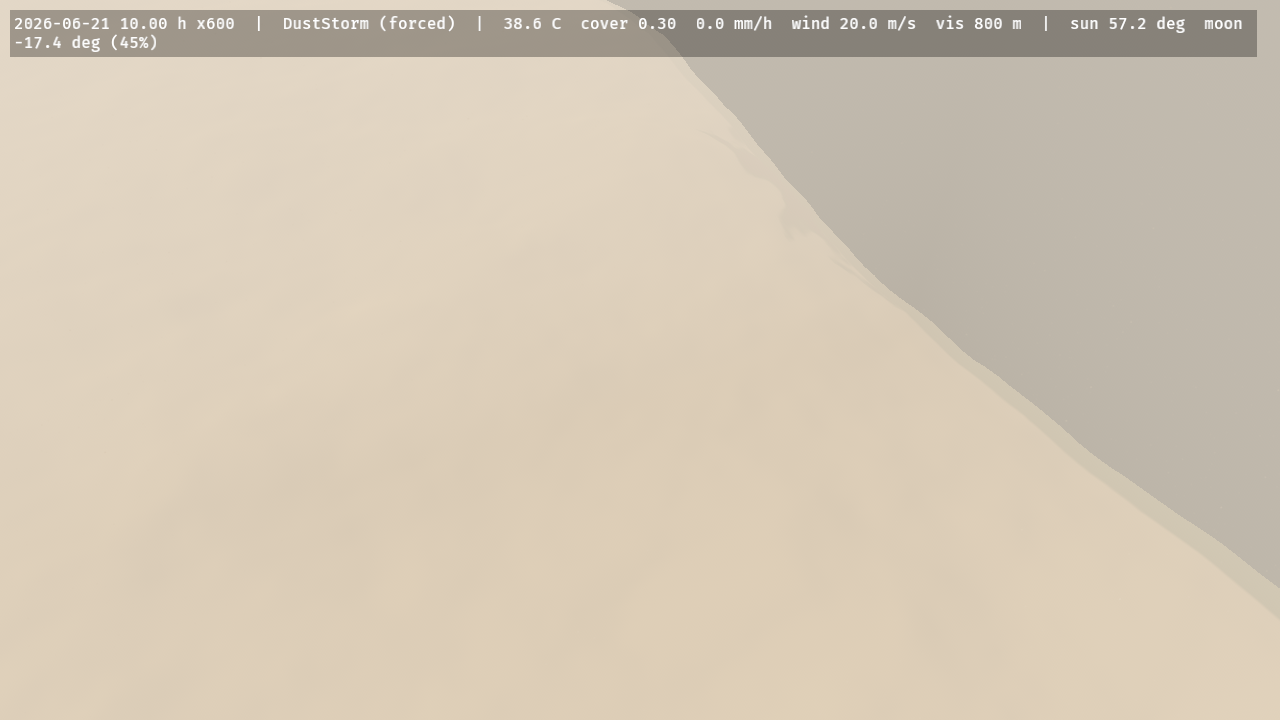
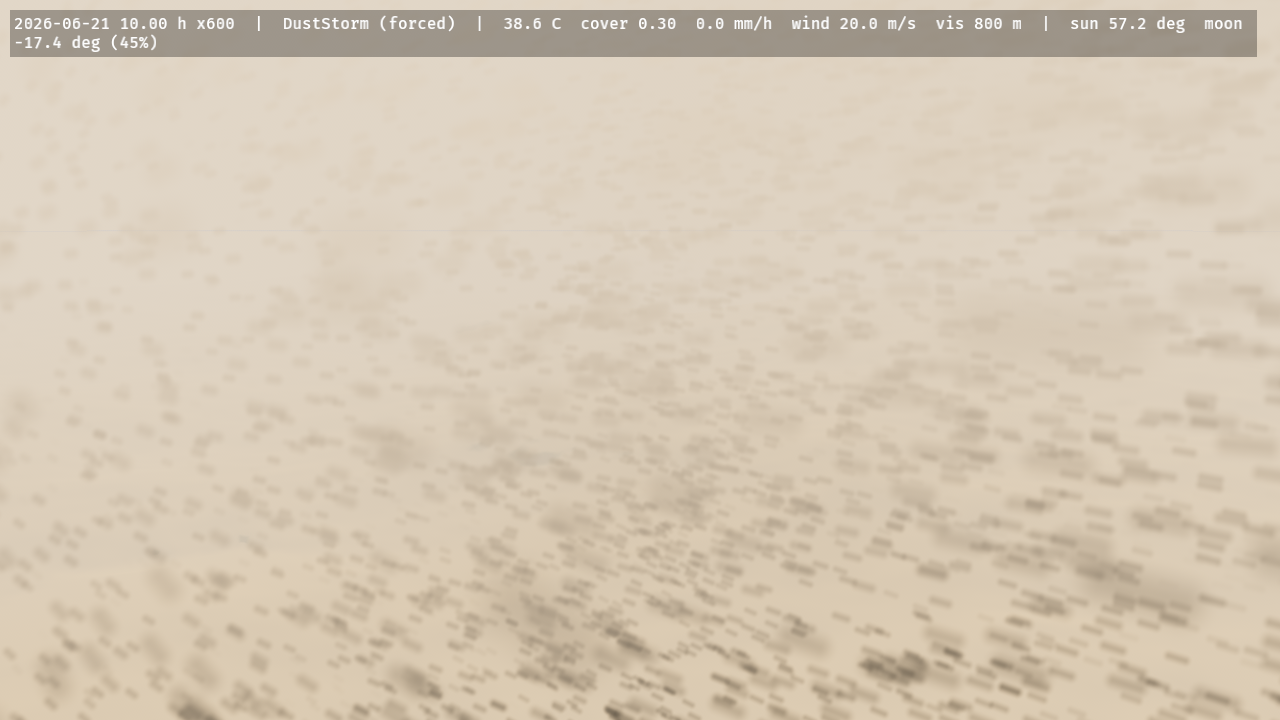
A dust storm streams instead of sitting as static fog
The sprites were drawn at their 2 mm grain size: 0.02-0.1 px anywhere
in the 60 m box, so the sub-pixel coverage rule faded each one to
opacity ~0.01 and 60 000 of them added nothing. Measured on a 1150x140
sky band: zero pixels below 150 against a 224 background, and the
review measured <= 4 DN of motion across 14 frames - the streaming
particulate the example exists to show did not read.

Sprites are now drawn at 0.35 m cluster scale with their own 0.5
opacity (below a flake's 0.8: a cluster sprite is a veil of grains, not
an opaque puff). After: 26% of the frame moves more than 6 DN, with
cores at 150-199 (55k pixels), the tan chromaticity preserved
(R:G:B 1.17:1.10:1.00 both before and after), and no blobs, squares or
whiteout. The vision reviewer's verdict: ship - coherent downwind
advection, no popping at the box edges.

The grain size stays 2 mm where it belongs, in the sprite extinction
 Validation 8 pins 8.7e-7 m^-1): the counts, the motion, the fog and
every physics number are untouched. dust.md Deviation 15 records the
split and the measurements; CHANGELOG updated; the three dust stills in
the README regenerated.

diff --git a/src/precipitation/model.rs b/src/precipitation/model.rs
@@ -92,8 +92,15 @@ pub(crate) const DUST_FALL_SPEED_MS: f32 = 0.05;
 /// Scale height of the dust sprites' respawn heights above the ground, m: the ground fog's
 /// haze scale height (`fog.md`).
 pub(crate) const DUST_HEIGHT_SCALE_M: f32 = 60.0;
-/// Diameter of a dust sprite, m (plan 4.3; a visual stand-in for a puff).
+/// Grain diameter of a dust sprite, m (plan 4.3): the size the sprite extinction accounts
+/// (`dust_sprite_extinction`, `dust.md` Validation 8). The sprite is *drawn* at
+/// `DUST_SPRITE_DRAW_M` — see `dust.md` Deviation 15.
+#[cfg(test)]
 pub(crate) const DUST_SIZE_M: f32 = 2e-3;
+/// Diameter a dust sprite is drawn with, m: a visible puff cluster, not the 2 mm grain. At the
+/// grain size a sprite spans 0.02–0.1 px anywhere in the 60 m box, so it fades to nothing under
+/// the sub-pixel coverage rule and a dust storm reads as static fog (`dust.md` Deviation 15).
+pub(crate) const DUST_SPRITE_DRAW_M: f32 = 0.35;
 
 /// How many particles of each kind are active.
 #[derive(Clone, Copy, Debug, Default, PartialEq, Eq)]

diff --git a/src/precipitation/mod.rs b/src/precipitation/mod.rs
@@ -33,7 +33,8 @@ use crate::plugin::{
 use crate::terrain::{NO_TERRAIN, TerrainParamsGpu, TerrainState};
 use crate::wind::{WindFieldParams, WindState};
 use model::{
-    DUST_FALL_SPEED_MS, DUST_HEIGHT_SCALE_M, DUST_SIZE_M, marshall_palmer_lambda, particle_counts,
+    DUST_FALL_SPEED_MS, DUST_HEIGHT_SCALE_M, DUST_SPRITE_DRAW_M, marshall_palmer_lambda,
+    particle_counts,
 };
 
 /// Edge of the camera-centred particle box, m.
@@ -434,7 +435,7 @@ fn update_precipitation(
             SPLASH_LIFE_S,
             runtime.time,
         ),
-        dust: crate::fog::DUST_ALBEDO.extend(DUST_SIZE_M),
+        dust: crate::fog::DUST_ALBEDO.extend(DUST_SPRITE_DRAW_M),
         camera: view.velocity.extend(PRECIPITATION_BOX_M * 0.5),
     };
 }

diff --git a/docs/research/dust.md b/docs/research/dust.md
@@ -143,13 +143,4 @@ GPU against CPU mirror (`gpu_aeolian_matches_the_cpu_mirror`, rough bedrock unde
 
 14. **The respawn height profile is truncated to the part of the box above the ground.** The note's $y = -H\ln(1 - u(1 - e^{-60/H}))$ assumes 60 m of box above the ground, but the box is centred on the camera (30 m above a camera at the ground). The sampler is `lo − H ln(1 − u (1 − e^{−(hi−lo)/H}))` over `[lo, hi]` = the box's span above the ground there; with `lo = 0`, `hi = 60` it is the note's formula (the CPU test uses that case). A sprite carried out of the top of the box respawns instead of wrapping to the bottom, where it would sit under the ground for a frame.
 
-Kept at the plan's values although the sources differ or are silent (no deviation): threshold 8 m/s (the fluid threshold for 250 µm sand; the impact threshold and Fryberger & Dean are 6.2–6.7); repose 34° (Kok and Werner; Paris 30°); particle size 2 mm and fraction 0.4 (visual choices); no extinction added to the fog (`fog.md`).
-
-## Pending index
-
-`distill_index` skipped (distill/Qdrant refused connections on 2026-10-13; scribe on `bmb.local` was healthy). PDFs under `/tmp/research/pdf` (not committed). Stems: lower-cased DOI, `/` → `_`.
-
-- `10.1111_cgf.13815`: **the corpus copy is the HAL landing page only (abstract); re-ingest the real PDF** (SciDB copy, `/tmp/research/pdf/10.1111_cgf.13815.pdf`, 3.2 MB) so the library holds the body.
-- `10.1088_0034-4885_75_10_106901` (Kok et al. 2012; arXiv 1201.4353, open PDF; also cited by `snow-cover.md`)
-- Not obtained, used only through Kok et al. or Paris: Bagnold (1941) *The Physics of Blown Sand and Desert Dunes*, Kawamura (1951), Owen (1964), Lettau & Lettau (1978), Fryberger & Dean (1979), Werner (1995), Sauermann et al. (2001), Hersen et al. (2002), Durán et al. (2010, 2011), Fécan et al. (1999), Shao & Lu (2000), Parteli et al. (2007), Shao (2008) visibility categories, coastal-morphodynamics literature on the morphological acceleration factor.
-- Stems to add to `corpus.md` "Dust and aeolian transport (M4)": `10.1088_0034-4885_75_10_106901` (Kok review: threshold, flux laws, dune physics, dust emission) and the full text of `10.1111_cgf.13815`.
+15. **A dust sprite is drawn at cluster scale, not at the grain size.** The 2 mm grain (the note's plan value, a visual choice) is the size the sprite extinction accounts (`dust_sprite_extinction`, Validation 8's 8.7·10⁻⁷ m⁻¹ — unchanged), but it is also the size the draw shader *renders*: at 2 mm a sprite spans 0.02–0.1 px anywhere in the 60 m box, so the sub-pixel coverage rule (`draw.wesl`, Garg & Nayar 2007 Eqs. 21–22) fades its opacity to ≈0.01 and 60 000 sprites add nothing. Measured on the `dust_storm` capture (iteration 6): across a 1150 × 140 sky band, zero pixels fall below 150 against a 224 background and only 0.5 % reach 200–217 — the streaming particulate the example exists to show does not read, and the storm looks like static fog (the iteration-5 review, `b5_dust_*`, measured ≤ 4 DN over 14 frames). Adopted: the draw diameter is `DUST_SPRITE_DRAW_M` = 0.35 m, a visible puff of grains, and one sprite's opacity is `DUST_ALPHA` = 0.5, below a flake's 0.8, so a cluster-scale sprite is a veil rather than an opaque puff. Both are presentational like the grain size ([INFERENCE], no source): the extinction budget, the counts, the motion and the fog are untouched.

diff --git a/CHANGELOG.md b/CHANGELOG.md
@@ -6,6 +6,12 @@ All notable changes to bevy_elements. The format follows [Keep a Changelog](http
 
 ### Fixed
 
+- **A dust storm streams.** The dust sprites were drawn at their 2 mm grain size — 0.02–0.1 px
+  anywhere in the 60 m box — so the sub-pixel coverage rule faded them out and the storm read as
+  static fog (zero pixels below 150 against a 224 background across a 1150 × 140 sky band).
+  Sprites are now drawn at a 0.35 m cluster scale with their own 0.5 opacity (below a flake's
+  0.8, so a cluster sprite is a veil, not a puff); the grain size, the sprite extinction, the
+  counts and the motion are unchanged (`docs/research/dust.md`, Deviation 15).
 - **The horizon shows no dark band where the ground ends before it.** Past the edge of a finite ground (quickstart hills from 6 m eye, any terrain that does not reach the horizon) the below-horizon sky drew Bevy's unlit planet term: `ground_haze` fogged over the bare planet's near root — 23 m at 5° below the horizon from a 2 m eye, a transmittance of ~1 — so a 45-row band read 157–171 against sky 243 and fogged ground 229 under `Snow` and `Rain`. The fog distance is now floored at the march range (32 km): a below-horizon pixel with no mesh shows ground the fog has fully carried, because nothing nearer than the far field is visible beyond a finite terrain. New GPU test `the_horizon_sky_is_the_fog_colour_under_a_deck` pins both sides of the horizon (`docs/research/clouds.md`, Deviation 28).
 - **Snow now lies on the ground the examples show, and a still can show it.** `weather_tour` under `Snow` and `Blizzard` rendered olive-drab ground where the boxes and columns beside it were white: the harness's 2 km plane was a bespoke material that sampled only the cloud shadow map. The examples' ground is now `WeatheredMaterial` — it darkens and glosses in rain, runs with streaks and whitens under snow as a consumer's mesh does — and its plane reaches 40 km, so the ground meets the sky without the sliver of unlit below-horizon atmosphere a 2 km plane leaves at the horizon (a 66 DN drop to a band floor 16 DN below the ground under `Overcast` and `PartlyCloudy`, now gone). A held clock (`ELEMENTS_HOUR`) integrates no game time, so no material could ever whiten in a still; `ELEMENTS_GROW_HOURS=n` now runs `n` game hours of the held preset before the first frame and rewinds the clock, leaving the hour, sun and sky as the example's own (`docs/research/snow-cover.md`, Deviation 14; `docs/research/clouds.md`, Deviation 28).
 - **The sky carries the weather's air, so a whiteout has no horizon line.** The distance fog fogs every mesh to the fog colour as it recedes, but the sky kept the cloud deck's own radiance: under `Blizzard` the horizon read as a 40-level step (sky `(186, 193, 198)` above fogged ground `(224, 228, 230)`), and the same step showed on real terrain and from the air. The composite now fogs sky pixels by `σ_air = σ_fog − 3.912/40 km`, read from the camera's own `DistanceFog` and with the clear-air floor removed, so the sky converges on the same fog colour the ground does, and `Clear` (40 km) is a bit-exact no-op. `fog::sky_air_extinction` is the one authority for the floor (`docs/research/clouds.md`, Deviation 29).
